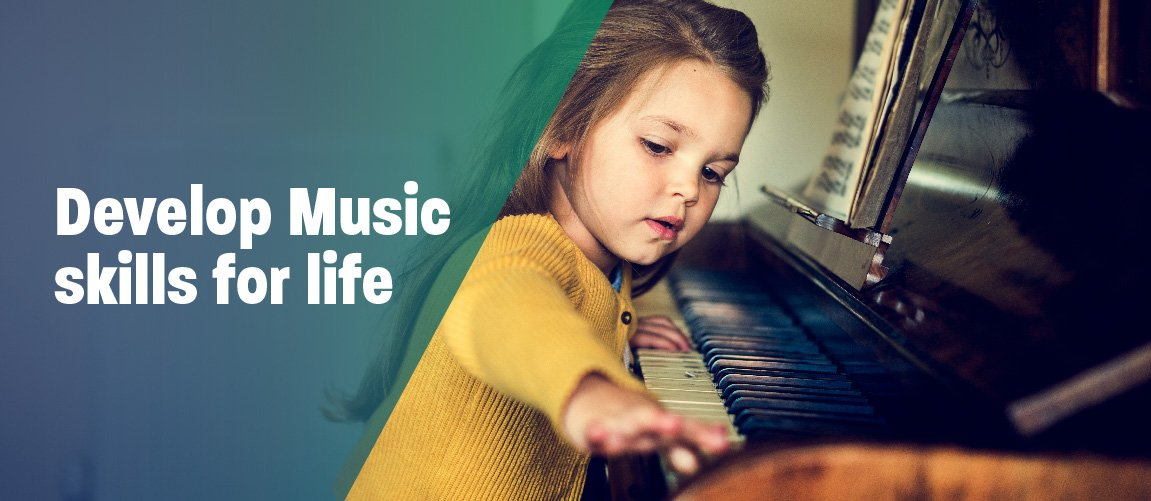
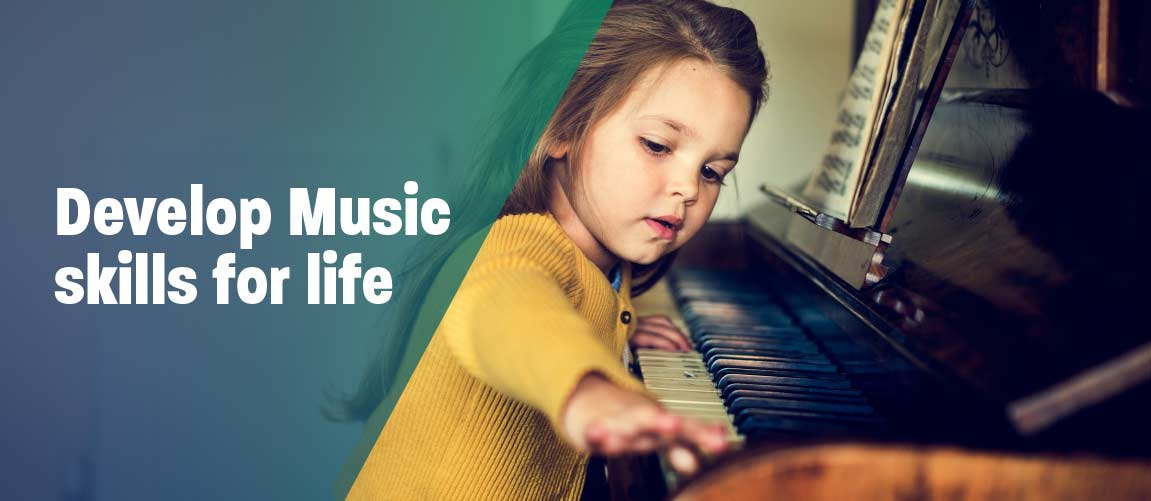
:hammer: Optimized images

diff --git a/index.php b/index.php
@@ -9,20 +9,20 @@
 <div class="container-homepage">
   <h2>What do you want to learn?</h2>
   <div class="learn">
-    <a style="background-image:url('img/header-guitar.png');" href="guitar.php">Guitar</a>
-    <a style="background-image:url('img/header-piano.png');" href="piano.php">Piano</a>
+    <a style="background-image:url('img/header-guitar.jpg');" href="guitar.php">Guitar</a>
+    <a style="background-image:url('img/header-piano.jpg');" href="piano.php">Piano</a>
     <a style="background-image:url('img/header-drums.jpg');" href="drums.php">Drums</a>
-    <a style="background-image:url('img/header-bass.png');" href="bass.php">Bass</a>
-    <a style="background-image:url('img/header-ukulele.png');" href="ukulele.php">Ukulele</a>
+    <a style="background-image:url('img/header-bass.jpg');" href="bass.php">Bass</a>
+    <a style="background-image:url('img/header-ukulele.jpg');" href="ukulele.php">Ukulele</a>
   </div>
 
 <?php include("includes/callout.php"); ?>
 
-  <h2 class="instatitle">Check us out on Instagram</h2>
+  <!--<h2 class="instatitle">Check us out on Instagram</h2>
   <script src="https://cdn.lightwidget.com/widgets/lightwidget.js"></script>
   <iframe class="desktop-only" src="//lightwidget.com/widgets/6c0c1b820b1d54d4987f73bb2da80bb2.html" scrolling="no" allowtransparency="true" class="lightwidget-widget" style="width:100%;border:0;overflow:hidden;"></iframe>
   <iframe class="mobile-only" src="//lightwidget.com/widgets/8f739c168911516cab032b506e42bbfc.html" scrolling="no" allowtransparency="true" class="lightwidget-widget" style="width:100%;border:0;overflow:hidden;"></iframe>
-
+-->
 </div>
 
 

diff --git a/guitar.php b/guitar.php
@@ -1,11 +1,11 @@
 <?php include('includes/header.php');?>
-<div class="page-header" style="background-image:url('img/header-guitar.png')">
+<div class="page-header" style="background-image:url('img/header-guitar.jpg')">
   <h1>Guitar Lessons</h1>
 </div>
 <main>
 
   <div class="container-lessons">
-    <div class="desktop-only lesson-image" style="background-image:url('img/guitar-acoustic.png')">
+    <div class="desktop-only lesson-image" style="background-image:url('img/guitar-acoustic.jpg')">
     </div>
     <div>
       <h2>Acoustic Guitar</h2>
@@ -43,7 +43,7 @@
   </div>
 
   <div class="container-lessons">
-    <div class="desktop-only lesson-image" style="background-image:url('img/guitar-electric.png')">
+    <div class="desktop-only lesson-image" style="background-image:url('img/guitar-electric.jpg')">
 
     </div>
     <div>

diff --git a/ukulele.php b/ukulele.php
@@ -1,11 +1,11 @@
 <?php include('includes/header.php');?>
-<div class="page-header" style="background-image:url('img/header-ukulele.png')">
+<div class="page-header" style="background-image:url('img/header-ukulele.jpg')">
   <h1>Ukulele Lessons</h1>
 </div>
 <main>
 
   <div class="container-lessons">
-    <div class="desktop-only lesson-image" style="background-image:url('img/ukulele.png')">
+    <div class="desktop-only lesson-image" style="background-image:url('img/ukulele.jpg')">
     </div>
     <div>
       <h2>Ukulele</h2>

diff --git a/piano.php b/piano.php
@@ -1,11 +1,11 @@
 <?php include('includes/header.php');?>
-<div class="page-header" style="background-image:url('img/header-piano.png')">
+<div class="page-header" style="background-image:url('img/header-piano.jpg')">
   <h1>Piano Lessons</h1>
 </div>
 <main>
 
   <div class="container-lessons">
-    <div class="desktop-only lesson-image" style="background-image:url('img/piano.png')">
+    <div class="desktop-only lesson-image" style="background-image:url('img/piano.jpg')">
     </div>
     <div>
       <h2>Piano</h2>

diff --git a/bass.php b/bass.php
@@ -1,11 +1,11 @@
 <?php include('includes/header.php');?>
-<div class="page-header" style="background-image:url('img/header-bass.png')">
+<div class="page-header" style="background-image:url('img/header-bass.jpg')">
   <h1>Bass Lessons</h1>
 </div>
 <main>
 
   <div class="container-lessons">
-    <div class="desktop-only lesson-image" style="background-image:url('img/bass.png')">
+    <div class="desktop-only lesson-image" style="background-image:url('img/bass.jpg')">
     </div>
     <div>
       <h2>Bass</h2>

diff --git a/contact.php b/contact.php
@@ -1,5 +1,5 @@
 <?php include('includes/header.php');?>
-<div class="page-header" style="background-image:url('img/header-contact.png')">
+<div class="page-header" style="background-image:url('img/header-contact.jpg')">
   <h1>Contact</h1>
 </div>
 <main>

diff --git a/about.php b/about.php
@@ -1,5 +1,5 @@
 <?php include('includes/header.php');?>
-<div class="page-header" style="background-image:url('img/header-about.png')">
+<div class="page-header" style="background-image:url('img/header-about.jpg')">
   <h1>About</h1>
 </div>
 <main>

diff --git a/faq.php b/faq.php
@@ -1,5 +1,5 @@
 <?php include('includes/header.php');?>
-<div class="page-header" style="background-image:url('img/header-faq.png')">
+<div class="page-header" style="background-image:url('img/header-faq.jpg')">
   <h1>FAQ</h1>
 </div>
 <main>
